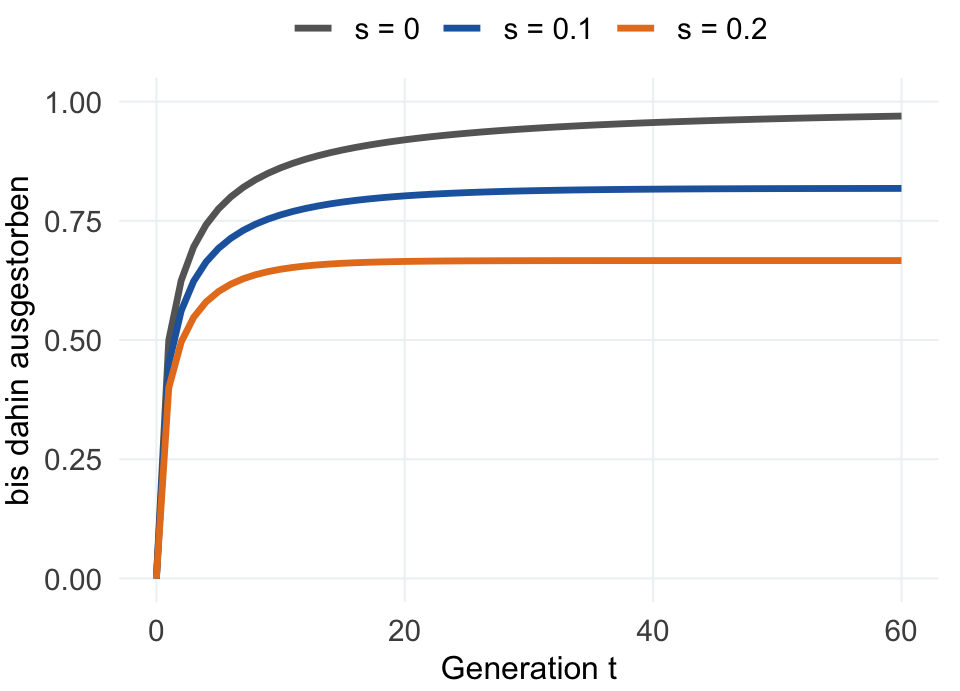
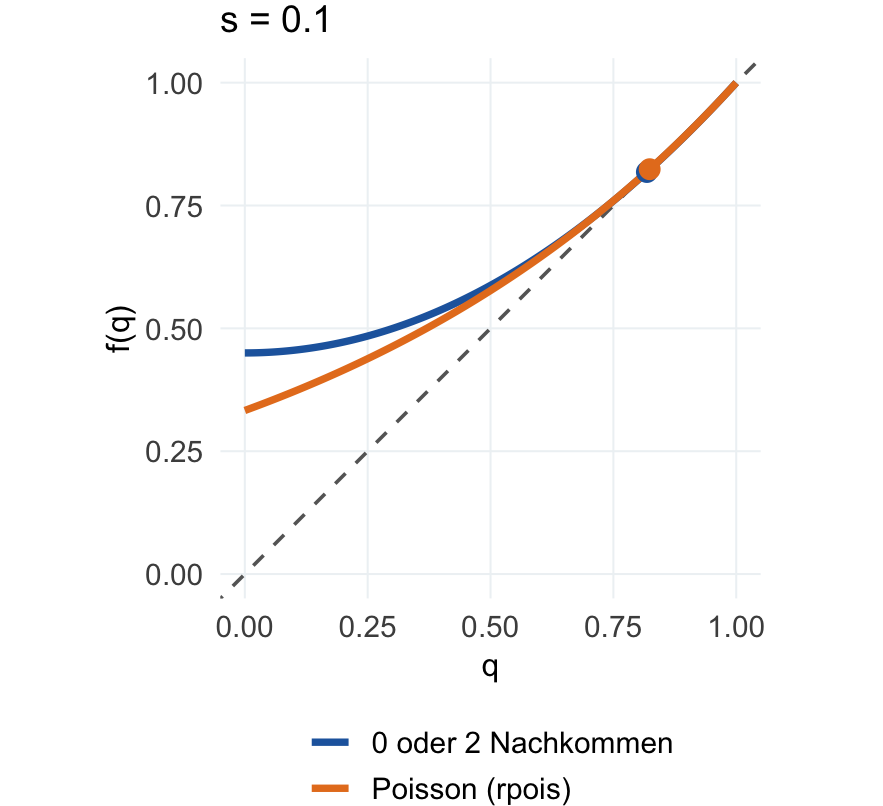
Week 10: branching process without iteration; same idea for Poisson offspring with small-s step; PGF figures with fixed point; research slide on fixation/establishment literature with Bern work; compact overview of models, predictions and experiments; notebook task B compares 2s/(1+s)

diff --git a/weeks/week-10/slides.css b/weeks/week-10/slides.css
@@ -166,3 +166,12 @@
   color: #5d6d7e;
   line-height: 1.25;
 }
+
+/* Woche 10: kompakte Übersichtstabelle */
+.reveal .ueberblick table {
+  font-size: 0.62em;
+}
+.reveal .ueberblick td,
+.reveal .ueberblick th {
+  padding: 0.22em 0.45em;
+}
